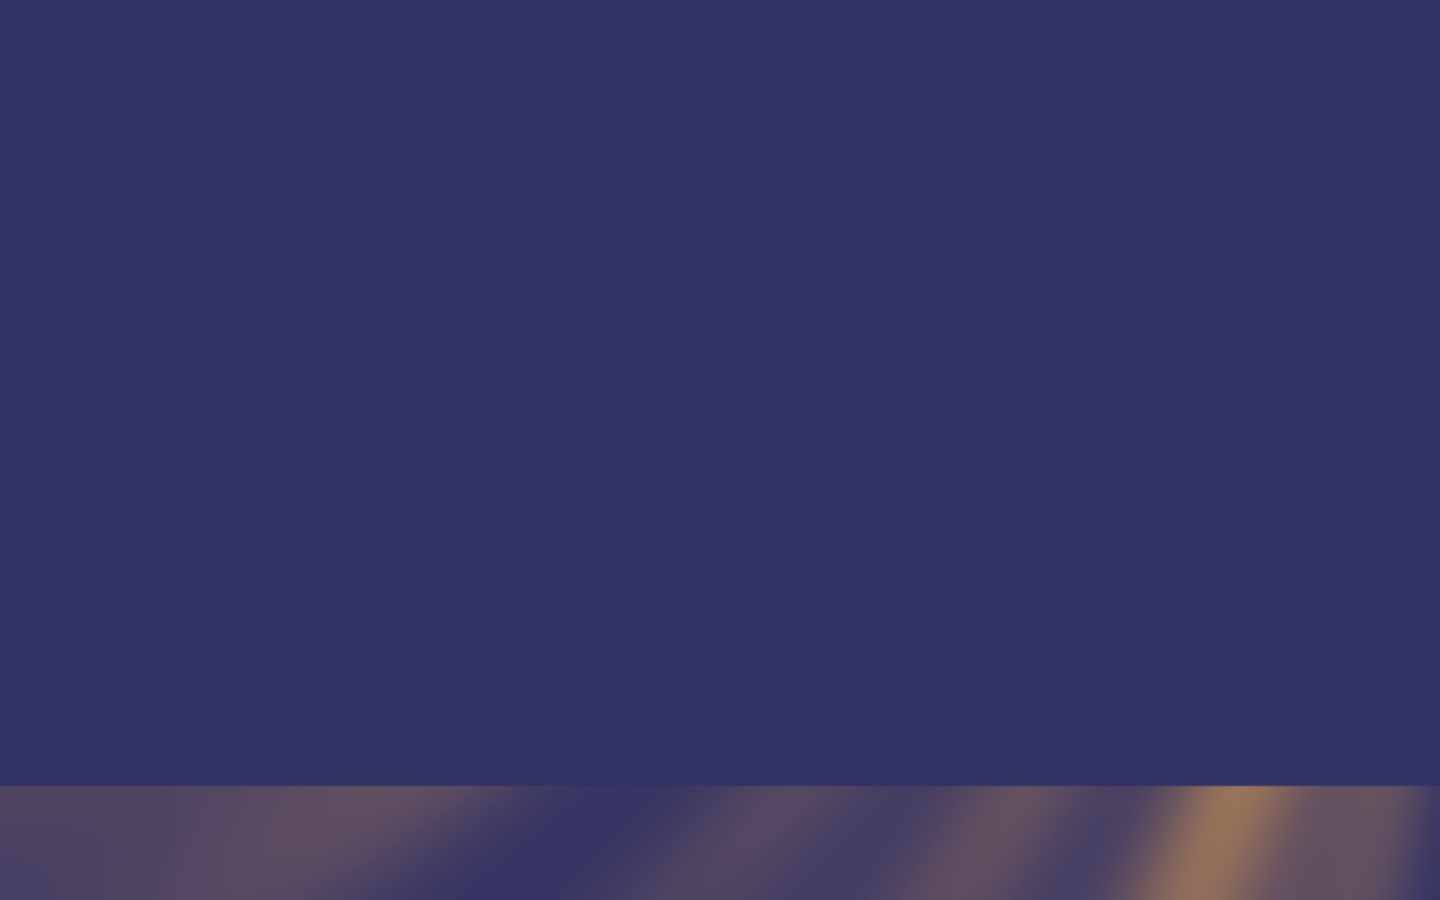
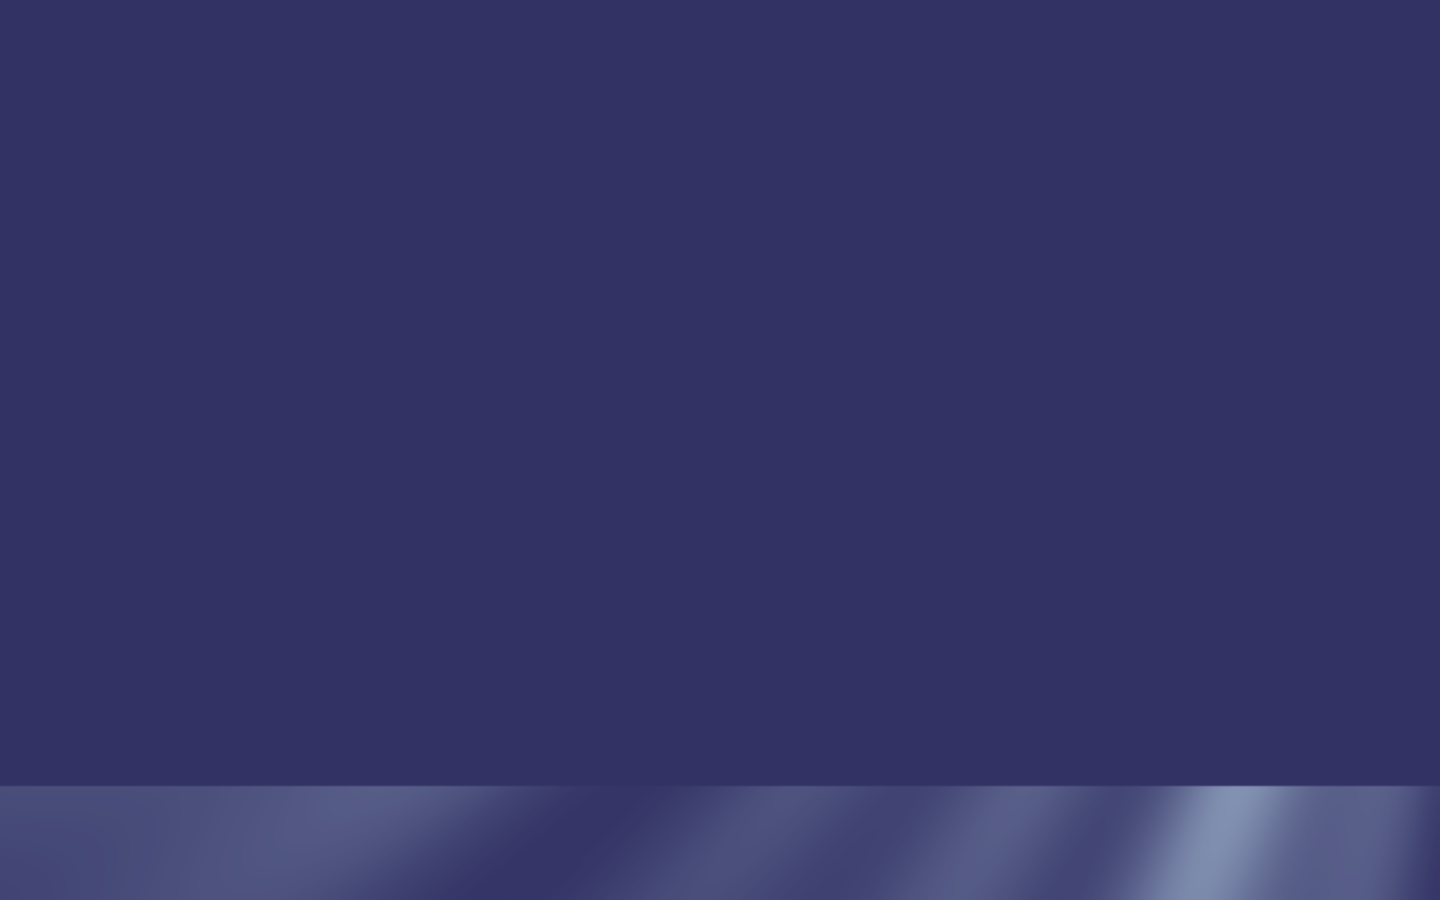
feat: update light color to white-blue and background to ocean blue
- Changed light filter color to a white-blue tone ([210, 240, 255]).
- Updated TankScene to fill the background with COLOR_OCEAN_BLUE.
- Enabled alpha transparency when loading Tank.png to allow the blue background to show through.
- Maintained frontmost rendering order for the light filter.

Changed region(s): [[0.5938, 0.8711, 1.0, 1.0], [0.0, 0.8711, 0.3438, 1.0], [0.4688, 0.8711, 0.5938, 1.0]]

diff --git a/managers/tank_scene.py b/managers/tank_scene.py
@@ -1,6 +1,6 @@
 import pygame, os, time
 from core.constants import SCREEN_WIDTH, SCREEN_HEIGHT, TRASH_RECT_COORDS, QUARANTINE_RECT_COORDS
-from core.theme import COLOR_DEEP_BLUE, COLOR_WHITE, COLOR_GOLD, COLOR_UI_BG, get_font
+from core.theme import COLOR_DEEP_BLUE, COLOR_OCEAN_BLUE, COLOR_WHITE, COLOR_GOLD, COLOR_UI_BG, get_font
 from core.game_state import game_state
 from managers.scene_manager import Scene; from managers.ui_manager import UIManager; from managers.asset_manager import assets
 from entities.fish import Fish; from entities.food import Food; from entities.decoration import Decoration; from managers.light_manager import LightManager
@@ -68,9 +68,9 @@ class TankScene(Scene):
         self.ui_manager.update()
         self.light_manager.update()
     def draw(self, surface):
-        bg = assets.load_image(os.path.join("asset", "Tank", "Tank.png"), alpha=False)
+        surface.fill(COLOR_OCEAN_BLUE)
+        bg = assets.load_image(os.path.join("asset", "Tank", "Tank.png"), alpha=True)
         if bg: surface.blit(bg, (0,0))
-        else: surface.fill(COLOR_DEEP_BLUE)
         for o in self.decor_objects: o.draw(surface)
         if self.dragging_decor:
             self.dragging_decor.draw(surface)

diff --git a/update_bg.py b/update_bg.py
@@ -1,0 +1,19 @@
+import sys
+
+with open('managers/tank_scene.py', 'r') as f:
+    lines = f.readlines()
+
+new_lines = []
+for line in lines:
+    if 'bg = assets.load_image(os.path.join("asset", "Tank", "Tank.png"), alpha=False)' in line:
+        new_lines.append('        surface.fill(COLOR_OCEAN_BLUE)\n')
+        new_lines.append('        bg = assets.load_image(os.path.join("asset", "Tank", "Tank.png"), alpha=True)\n')
+    elif 'if bg: surface.blit(bg, (0,0))' in line:
+        new_lines.append('        if bg: surface.blit(bg, (0,0))\n')
+    elif 'else: surface.fill(COLOR_DEEP_BLUE)' in line:
+        continue # Skip the else fill
+    else:
+        new_lines.append(line)
+
+with open('managers/tank_scene.py', 'w') as f:
+    f.writelines(new_lines)

diff --git a/managers/light_manager.py b/managers/light_manager.py
@@ -34,7 +34,7 @@ class LightManager:
         self.fade = np.clip(1.2 - dist / (self.gw * 1.3), 0, 1)
 
         # Warm Orange Color
-        self.color_rgb = np.array([255, 180, 80], dtype=np.uint8)
+        self.color_rgb = np.array([210, 240, 255], dtype=np.uint8)
 
     def _create_mask(self):
         """Detect the water area in Tank.png using OpenCV."""
